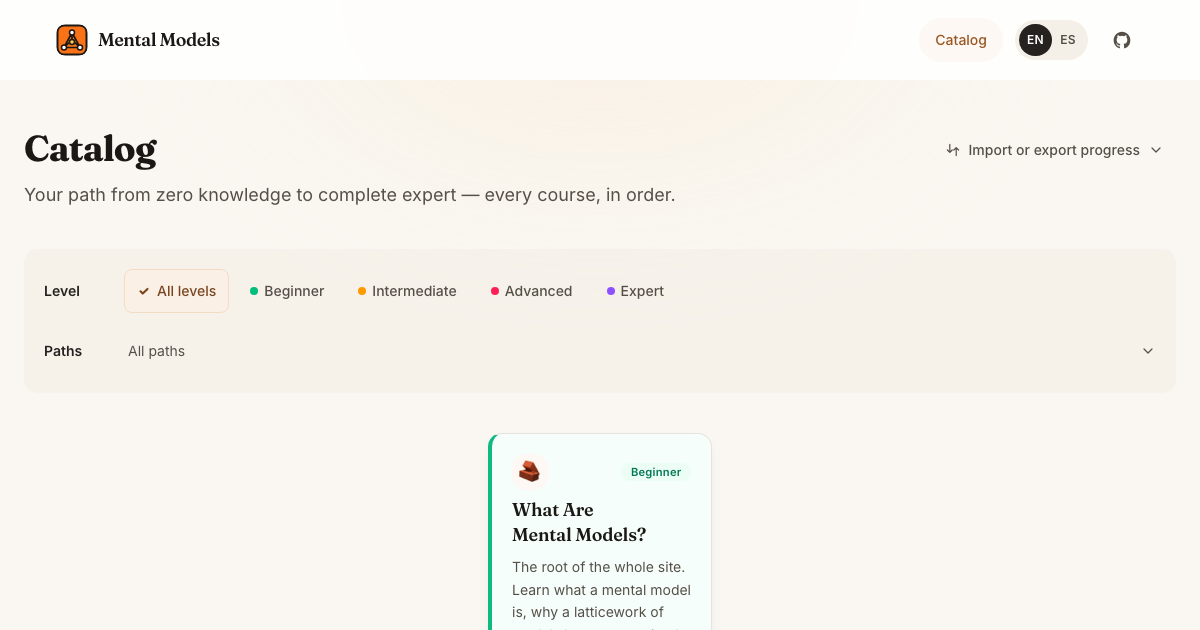
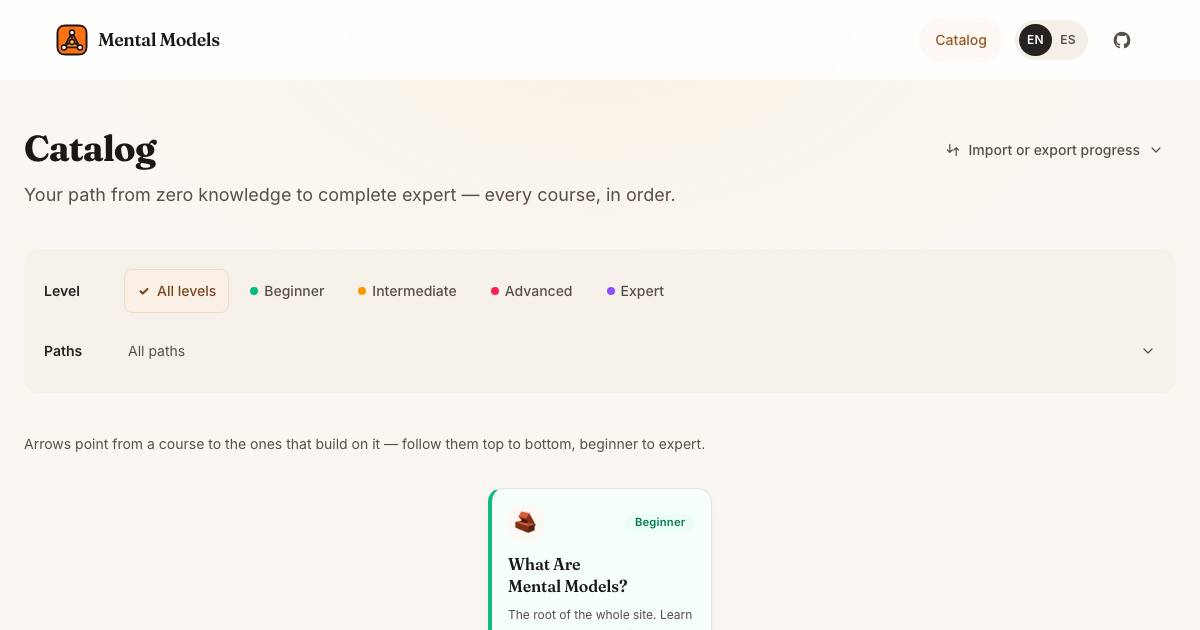
fix(ui): restore compact course maps and clamp summaries

Changed region(s): [[0.0308, 0.6937, 0.5858, 0.9952]]

diff --git a/src/components/react/CourseGraph.tsx b/src/components/react/CourseGraph.tsx
@@ -508,7 +508,12 @@ export function CourseGraph({
           <details className="group">
             <summary className="flex min-h-11 cursor-pointer list-none items-center gap-3 rounded-lg text-sm [&::-webkit-details-marker]:hidden">
               <span className="font-semibold text-ink-800 sm:mr-2 sm:w-16 sm:shrink-0">{tagsLabel}</span>
-              <span className="text-ink-600">{tags.length ? tagOptions.filter((o) => tags.includes(o.tag)).map((o) => o.label).join(', ') : allTagsLabel}</span>
+              <span
+                className="min-w-0 flex-1 truncate text-ink-600"
+                title={tags.length ? tagOptions.filter((o) => tags.includes(o.tag)).map((o) => o.label).join(', ') : allTagsLabel}
+              >
+                {tags.length ? tagOptions.filter((o) => tags.includes(o.tag)).map((o) => o.label).join(', ') : allTagsLabel}
+              </span>
               <svg className="ml-auto h-4 w-4 shrink-0 text-ink-600 transition-transform group-open:rotate-180" viewBox="0 0 20 20" fill="none" stroke="currentColor" strokeWidth={1.5} aria-hidden="true">
                 <path d="m5 7.5 5 5 5-5" strokeLinecap="round" strokeLinejoin="round" />
               </svg>
@@ -528,6 +533,10 @@ export function CourseGraph({
         ) : null}
       </div>
 
+      {caption ? (
+        <figcaption className="mb-8 max-w-3xl text-sm leading-relaxed text-ink-600">{caption}</figcaption>
+      ) : null}
+
       {visibleNodes.length === 0 ? (
         <p className="py-12 text-center text-ink-500">{emptyLabel}</p>
       ) : null}
@@ -536,7 +545,7 @@ export function CourseGraph({
         {/* Edge overlay — measured from the cards, purely decorative. */}
         <svg
           aria-hidden="true"
-          className="pointer-events-none absolute inset-0 hidden h-full w-full overflow-visible sm:block"
+          className="pointer-events-none absolute inset-0 h-full w-full overflow-visible"
           width={size.w || undefined}
           height={size.h || undefined}
         >
@@ -566,31 +575,15 @@ export function CourseGraph({
           ))}
         </svg>
 
-        {/* Card layers — plain responsive flow; arrows snap to these. */}
-        <ol className="relative flex list-none flex-col gap-y-10 p-0 sm:gap-y-20">
-          {rows.map((row, layer) => {
-            // Narrow screens give each course a readable full-width row.
-            // Wider mobile screens can pair cards; from sm, the measured graph
-            // uses a consistent card width and follows their actual positions.
-            const single = row.length === 1;
-            // Width lives on the flex ITEM (<li>), not the card, so the 50%
-            // resolves against the row — not the li's shrink-wrapped content —
-            // and `min-w-0` lets long titles wrap instead of spilling out.
-            const itemW = single ? 'w-full' : 'w-full min-[520px]:w-[calc(50%-0.5rem)]';
-            return (
-            <li
-              key={layer}
-              className="m-0 p-0"
-            >
-              <ul className="flex list-none flex-wrap items-stretch justify-center gap-4 p-0 sm:justify-evenly sm:gap-x-10 sm:gap-y-5">
+        {/* Compact nodes keep the full learning graph scannable. On narrow
+            screens two nodes share the row, capped at the reference's 160px;
+            widths follow the container so the graph still fits at 320px. */}
+        <ol className="relative flex list-none flex-col gap-y-12 p-0 sm:gap-y-20">
+          {rows.map((row, layer) => (
+            <li key={layer} className="m-0 p-0">
+              <ul className="flex list-none flex-wrap items-stretch justify-evenly gap-x-4 gap-y-4 p-0 sm:gap-x-8 sm:gap-y-6">
                 {row.map((n) => {
-                  const tint =
-                    n.accent === 'accent'
-                      ? 'bg-surface-sunken'
-                      : 'bg-brand-50';
-                  const tintText =
-                    'group-hover:text-brand-700';
-                  // Difficulty drives the card's colored left edge + tier tint.
+                  const tint = n.accent === 'accent' ? 'bg-surface-sunken' : 'bg-brand-50';
                   const edge = n.difficulty
                     ? DIFFICULTY_EDGE_CLASS[n.difficulty]
                     : 'border-l-4 border-l-ink-200 bg-surface';
@@ -598,40 +591,37 @@ export function CourseGraph({
                     if (el) cardRefs.current.set(n.slug, el);
                     else cardRefs.current.delete(n.slug);
                   };
+                  const itemClass = 'm-0 min-w-0 w-[calc((100%-1rem)/2)] max-w-40 p-0 sm:w-56 sm:max-w-none';
+                  const cardClass = 'brutal relative flex h-full w-full flex-col p-3.5 max-[359px]:p-3 sm:p-4';
 
-                  // Planned-but-unbuilt course: a dimmed, non-clickable node
-                  // that still anchors its dependency edges on the ladder.
                   if (n.comingSoon) {
                     return (
-                      <li key={n.slug} className={cx('m-0 min-w-0 p-0 sm:w-auto', itemW)}>
+                      <li key={n.slug} className={itemClass}>
                         <div
                           ref={setRef}
                           title={`${n.title} · ${comingSoonLabel}`}
                           aria-label={`${n.title} · ${comingSoonLabel}`}
-                          className={cx(
-                            'brutal relative flex h-full w-full flex-col border-dashed p-5 opacity-70 sm:w-56 sm:max-w-[80vw]',
-                            edge,
-                          )}
+                          className={cx(cardClass, 'border-dashed opacity-70', edge)}
                         >
-                          <div className="mb-2 flex items-center justify-between gap-2">
-                            <span
-                              className={cx(
-                                'grid h-8 w-8 shrink-0 place-items-center rounded-card text-lg grayscale sm:h-9 sm:w-9 sm:text-xl',
-                                tint,
-                              )}
-                            >
+                          <div className="mb-3 flex items-center justify-between gap-2">
+                            <span className={cx('grid h-7 w-7 shrink-0 place-items-center rounded-card text-base grayscale sm:h-9 sm:w-9 sm:text-xl', tint)} aria-hidden="true">
                               {n.icon}
                             </span>
                             {n.difficulty ? (
-                              <span className={cx('difficulty-badge', DIFFICULTY_CLASS[n.difficulty])}>
+                              <span className={cx('difficulty-badge hidden sm:inline-flex', DIFFICULTY_CLASS[n.difficulty])}>
                                 {difficultyLabels[n.difficulty]}
                               </span>
                             ) : null}
                           </div>
-                          <h3 className="break-words font-display text-lg font-semibold leading-snug text-ink-700">
+                          <h3 className="break-words font-display text-sm font-semibold leading-snug text-ink-700 sm:text-base">
                             {n.title}
                           </h3>
-                          <p className="mt-1.5 inline-flex items-center gap-1 text-xs font-semibold text-ink-600">
+                          {n.difficulty ? (
+                            <span className={cx('difficulty-badge mt-1.5 self-start sm:hidden', DIFFICULTY_CLASS[n.difficulty])}>
+                              {difficultyLabels[n.difficulty]}
+                            </span>
+                          ) : null}
+                          <p className="mt-auto inline-flex items-center gap-1 pt-3 text-xs font-medium text-ink-600">
                             <span aria-hidden="true">⏳</span>
                             {comingSoonLabel}
                           </p>
@@ -643,16 +633,12 @@ export function CourseGraph({
                   const prog = courseProgress(n.slug, n.lessonSlugs, finishedLessons, legacyCourses);
                   const isDone = prog.finished;
                   return (
-                    <li key={n.slug} className={cx('m-0 min-w-0 p-0 sm:w-auto', itemW)}>
+                    <li key={n.slug} className={itemClass}>
                       <a
                         ref={setRef}
                         href={n.href}
                         title={`${n.title} · ${prog.completed}/${prog.total} ${lessonsLabel}${isDone ? ` · ${finishedLabel}` : ''}`}
-                        className={cx(
-                          'brutal brutal-interactive group relative flex h-full w-full flex-col p-5 sm:w-56 sm:max-w-[80vw]',
-                          edge,
-                          isDone && 'ring-2 ring-brand-400 ring-offset-1',
-                        )}
+                        className={cx(cardClass, 'brutal-interactive group', edge, isDone && 'ring-2 ring-brand-400 ring-offset-1')}
                       >
                         {isDone ? (
                           <span
@@ -665,36 +651,26 @@ export function CourseGraph({
                             <span className="sr-only">{finishedLabel}</span>
                           </span>
                         ) : null}
-                        <div className="mb-2 flex items-center justify-between gap-2">
-                          <span
-                            className={cx(
-                              'grid h-8 w-8 shrink-0 place-items-center rounded-card text-lg sm:h-9 sm:w-9 sm:text-xl',
-                              tint,
-                            )}
-                          >
+                        <div className="mb-3 flex items-center justify-between gap-2">
+                          <span className={cx('grid h-7 w-7 shrink-0 place-items-center rounded-card text-base sm:h-9 sm:w-9 sm:text-xl', tint)} aria-hidden="true">
                             {n.icon}
                           </span>
                           {n.difficulty ? (
-                            <span className={cx('difficulty-badge', DIFFICULTY_CLASS[n.difficulty])}>
+                            <span className={cx('difficulty-badge hidden sm:inline-flex', DIFFICULTY_CLASS[n.difficulty])}>
                               {difficultyLabels[n.difficulty]}
                             </span>
                           ) : null}
                         </div>
-                        <h3
-                          className={cx(
-                            'break-words font-display text-lg font-semibold leading-snug text-ink-900',
-                            tintText,
-                          )}
-                        >
+                        <h3 className="break-words font-display text-sm font-semibold leading-snug text-ink-900 group-hover:text-brand-700 sm:text-base">
                           {n.title}
                         </h3>
-                        <p className="mt-2 text-sm leading-relaxed text-ink-600">{n.description}</p>
-                        <p
-                          className={cx(
-                            'mt-auto pt-4 text-xs font-medium',
-                            isDone ? 'text-brand-700' : 'text-ink-600',
-                          )}
-                        >
+                        {n.difficulty ? (
+                          <span className={cx('difficulty-badge mt-1.5 self-start sm:hidden', DIFFICULTY_CLASS[n.difficulty])}>
+                            {difficultyLabels[n.difficulty]}
+                          </span>
+                        ) : null}
+                        <p className="mt-2 hidden text-xs leading-relaxed text-ink-600 sm:line-clamp-3">{n.description}</p>
+                        <p className={cx('mt-auto pt-3 text-xs font-medium', isDone ? 'text-brand-700' : 'text-ink-600')}>
                           {prog.completed}/{prog.total} {lessonsLabel}
                         </p>
                       </a>
@@ -703,23 +679,10 @@ export function CourseGraph({
                 })}
               </ul>
             </li>
-            );
-          })}
+          ))}
         </ol>
       </div>
 
-      {/* Difficulty legend — the zero-to-expert path at a glance. */}
-      <ul className="mt-8 flex list-none flex-wrap items-center justify-center gap-3 p-0">
-        {(['beginner', 'intermediate', 'advanced', 'expert'] as Difficulty[]).map((d) => (
-          <li key={d} className="m-0 p-0">
-            <span className={cx('difficulty-badge', DIFFICULTY_CLASS[d])}>{difficultyLabels[d]}</span>
-          </li>
-        ))}
-      </ul>
-
-      {caption ? (
-        <figcaption className="mt-6 text-center text-sm text-ink-500">{caption}</figcaption>
-      ) : null}
     </figure>
   );
 }
